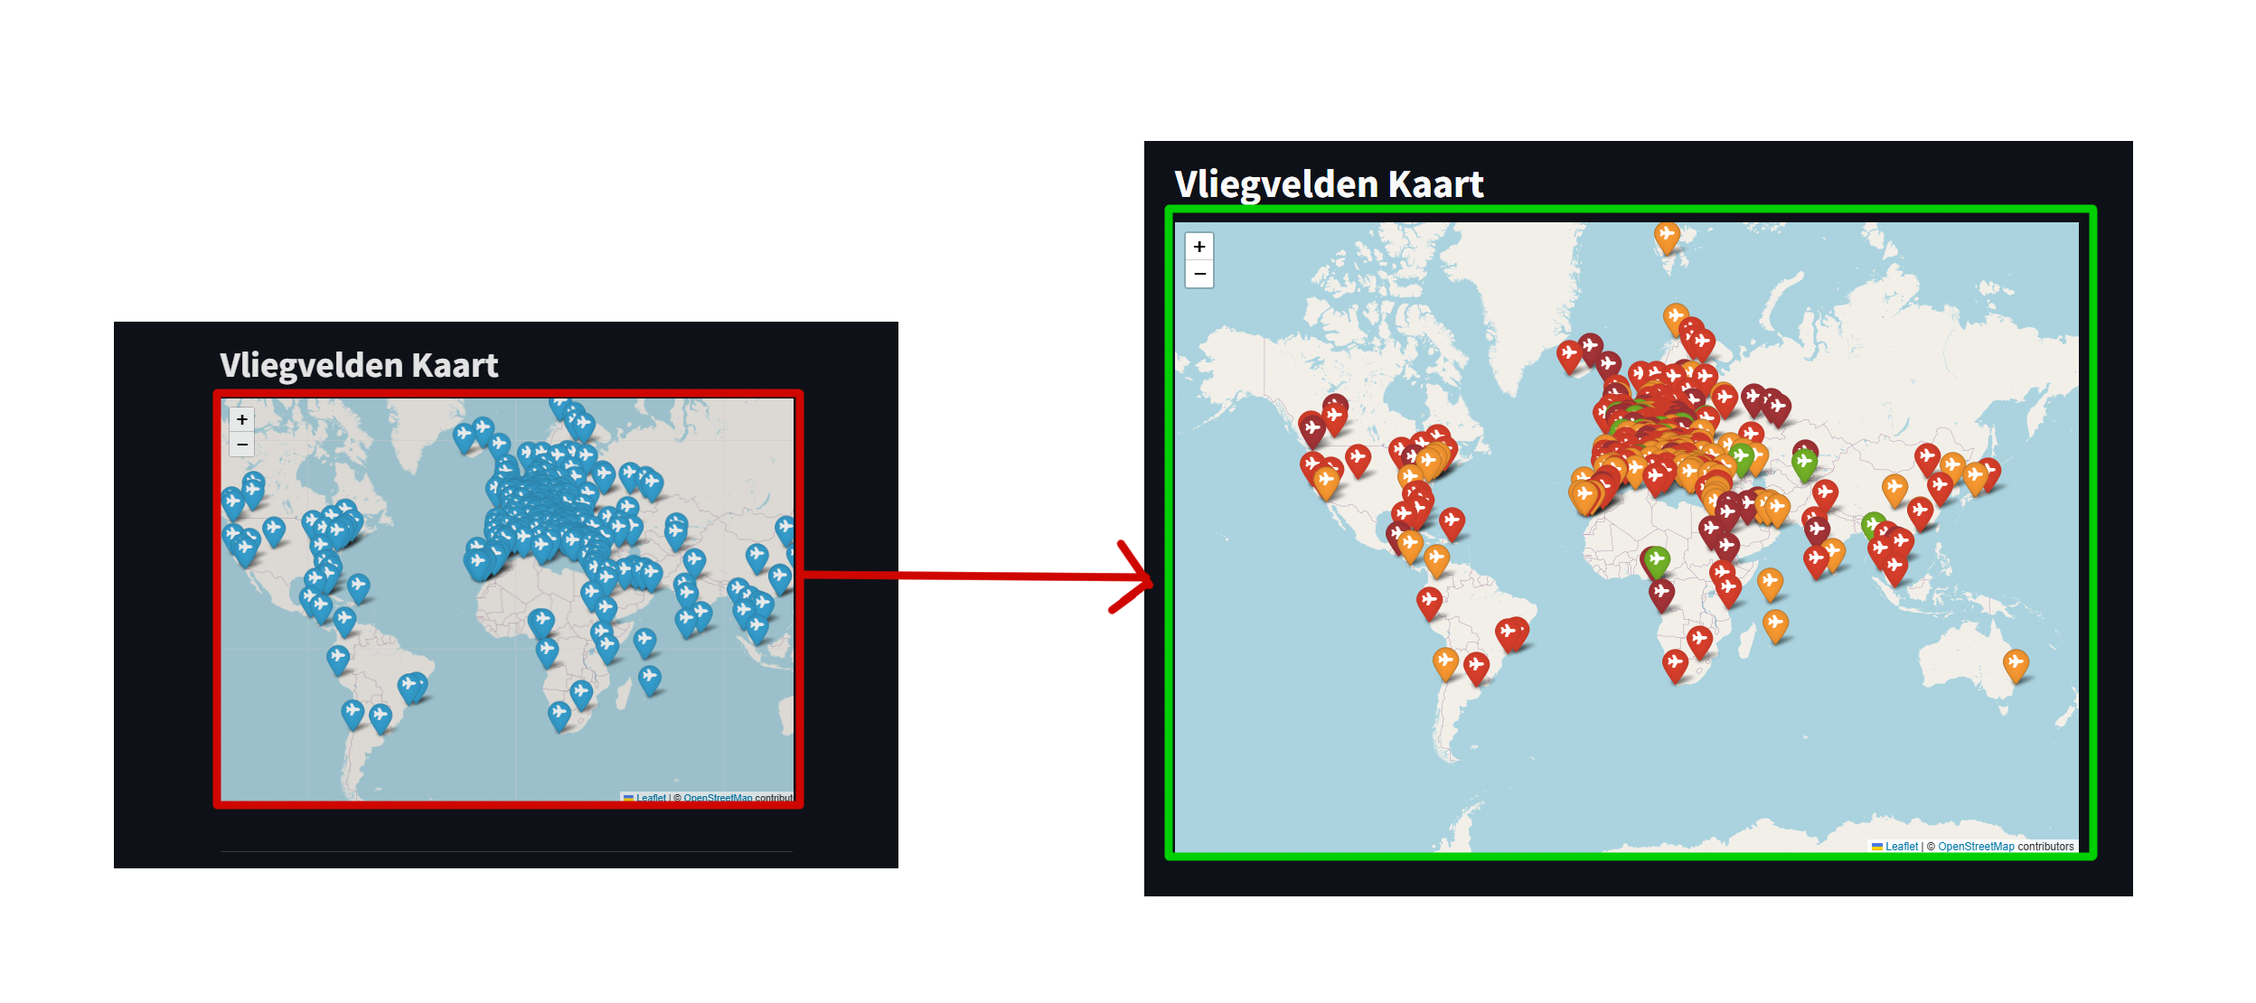
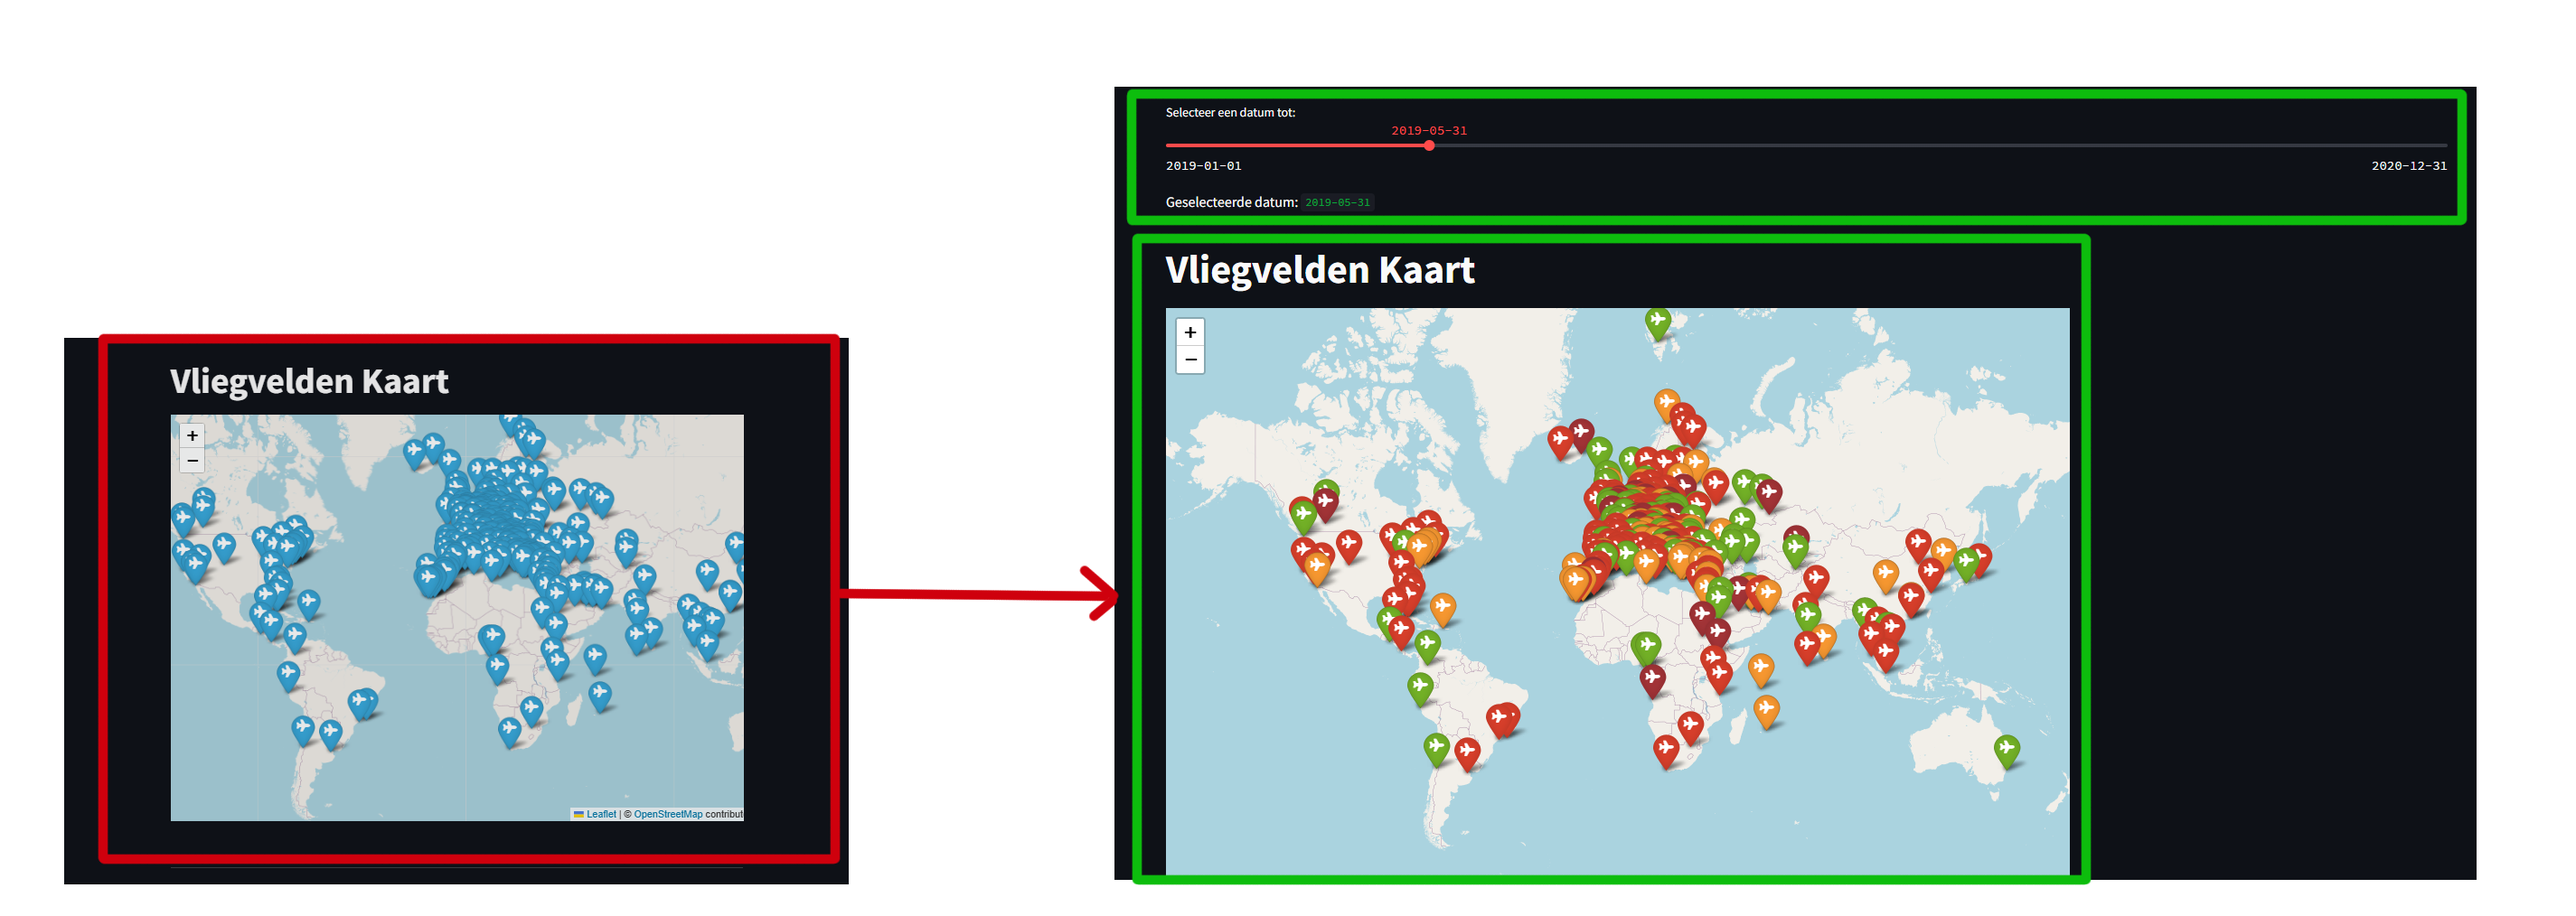
fifnal revision

diff --git a/tab3.py b/tab3.py
@@ -55,6 +55,24 @@ def load_tab3():
     unique_icao_orgdes['Latitude'] = unique_icao_orgdes['Latitude'].str.replace(',', '.').astype(float)
     unique_icao_orgdes['Longitude'] = unique_icao_orgdes['Longitude'].str.replace(',', '.').astype(float)
 
+     # Stel de minimum- en maximumdatum in voor de slider
+    min_date = datetime.date(2019, 1, 1)
+    max_date = datetime.date(2020, 12, 31)
+
+    # Maak een slider om een datum te selecteren
+    selected_date = st.slider(
+        "Selecteer een datum tot:",
+        min_value=min_date,
+        max_value=max_date,
+        value=max_date,  # Standaardwaarde
+        format="YYYY-MM-DD"
+    )
+
+    st.write("Geselecteerde datum:", selected_date)
+
+    merge['STD'] = pd.to_datetime(merge['STD'], format="%d/%m/%Y").dt.date
+    merge = merge[merge['STD'] <= selected_date]
+
     merge['FLT'] = merge['FLT'].str.replace(r'\d+', '', regex=True)
     
     totaal_vluchten_per_luchthaven = merge.groupby('ICAO')['Airport ID'].value_counts()

diff --git a/veranderingen.py b/veranderingen.py
@@ -123,6 +123,13 @@ beschikbare_landen = beschikbare_landen(formatted_start_date, formatted_end_date
 
         st.markdown('---')    
 
+        st.subheader("Toevoeging")
+        Luchthaven = Image.open('./images/Screenshot_70.png')
+        st.image(Luchthaven, caption='Ratio vertraagde vliegtuigen per land per luchthaven')
+        st.write("Deze plot is toegevoegd om de ratio van de vertraging per luchthaven in het land te laten zien. Deze toevoeging \
+        is erbij gezet om de rode draad in het verhaal te verbeteren. Op deze manier kan de gebruiker een betere beslissing maken \
+        over het onderwerp")
+
     elif veranderingen == "Kaart v2":
         st.header("Kaart-tabblad aanpassingen")
         st.markdown('---')
